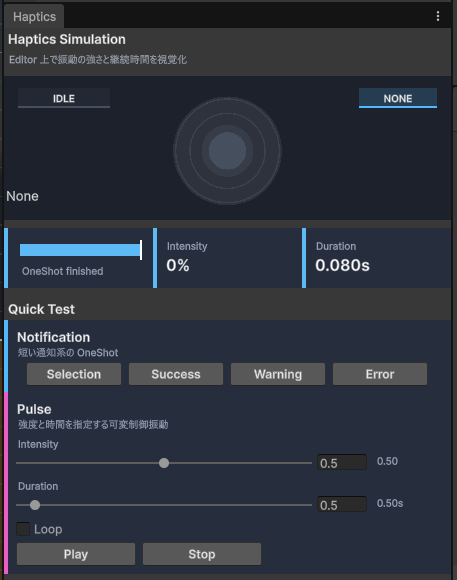
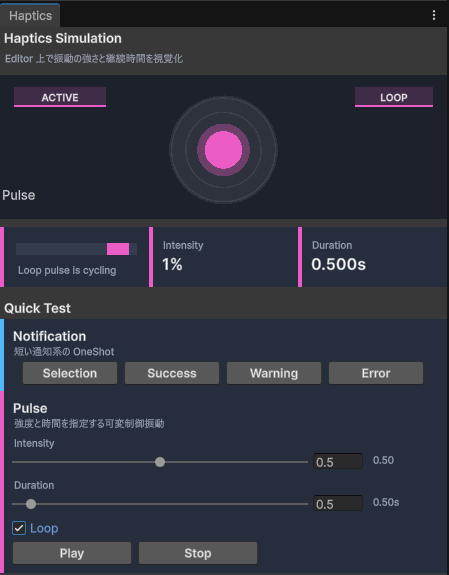
Simulation用の振動パターンを調整

diff --git a/Packages/com.daitokuamy.unitymobilehaptics/Scripts/Editor/MobileHapticsSimulationState.cs b/Packages/com.daitokuamy.unitymobilehaptics/Scripts/Editor/MobileHapticsSimulationState.cs
@@ -110,7 +110,7 @@ namespace UnityMobileHaptics.Editor {
 
             var duration = Mathf.Max(ExpectedDurationSeconds, 0.01f);
             var progress = Mathf.Clamp01((float)(elapsedSeconds / duration));
-            var pulse = Mathf.Sin(progress * Mathf.PI);
+            var pulse = GetOneShotEnvelope(progress);
             var strength = GetBaseStrength();
 
             IsActiveVisual = progress < 1f;
@@ -160,11 +160,11 @@ namespace UnityMobileHaptics.Editor {
                 case HapticType.Selection:
                     return 0.08f;
                 case HapticType.Success:
-                    return 0.18f;
+                    return 0.16f;
                 case HapticType.Warning:
-                    return 0.24f;
+                    return 0.26f;
                 case HapticType.Error:
-                    return 0.3f;
+                    return 0.28f;
                 default:
                     return 0.12f;
             }
@@ -190,6 +190,62 @@ namespace UnityMobileHaptics.Editor {
                 default:
                     return 0.5f;
             }
+        }
+
+        /// <summary>
+        /// OneShot 種別ごとの見た目用エンベロープを返す
+        /// </summary>
+        private float GetOneShotEnvelope(float progress) {
+            if (IsPulsePlayback) {
+                return Mathf.Sin(progress * Mathf.PI);
+            }
+
+            switch (LastType) {
+                case HapticType.Selection:
+                    return EvaluateImpact(progress, 0.08f, 0.62f, 1f, 1.15f);
+                case HapticType.Success:
+                    return EvaluateImpact(progress, 0.06f, 0.58f, 1.08f, 1.35f);
+                case HapticType.Warning:
+                    return EvaluateMultiImpact(
+                        progress,
+                        (0.08f, 0.28f, 0.76f, 1.25f),
+                        (0.54f, 0.76f, 0.68f, 1.2f)
+                    );
+                case HapticType.Error:
+                    return EvaluateMultiImpact(
+                        progress,
+                        (0.06f, 0.28f, 0.82f, 1.35f),
+                        (0.48f, 0.74f, 1f, 1.4f)
+                    );
+                default:
+                    return Mathf.Sin(progress * Mathf.PI);
+            }
+        }
+
+        /// <summary>
+        /// 区間内だけ立ち上がる衝撃波形を返す
+        /// </summary>
+        private static float EvaluateImpact(float progress, float start, float end, float amplitude = 1f, float sharpness = 1f) {
+            if (progress < start || progress > end) {
+                return 0f;
+            }
+
+            var localProgress = Mathf.InverseLerp(start, end, progress);
+            var pulse = Mathf.Sin(localProgress * Mathf.PI);
+            return Mathf.Pow(Mathf.Clamp01(pulse), sharpness) * amplitude;
+        }
+
+        /// <summary>
+        /// 複数の衝撃波形から最大値を返す
+        /// </summary>
+        private static float EvaluateMultiImpact(float progress, params (float Start, float End, float Amplitude, float Sharpness)[] impacts) {
+            var maxValue = 0f;
+            for (var i = 0; i < impacts.Length; i++) {
+                var impact = impacts[i];
+                maxValue = Mathf.Max(maxValue, EvaluateImpact(progress, impact.Start, impact.End, impact.Amplitude, impact.Sharpness));
+            }
+
+            return maxValue;
         }
 
         /// <summary>
